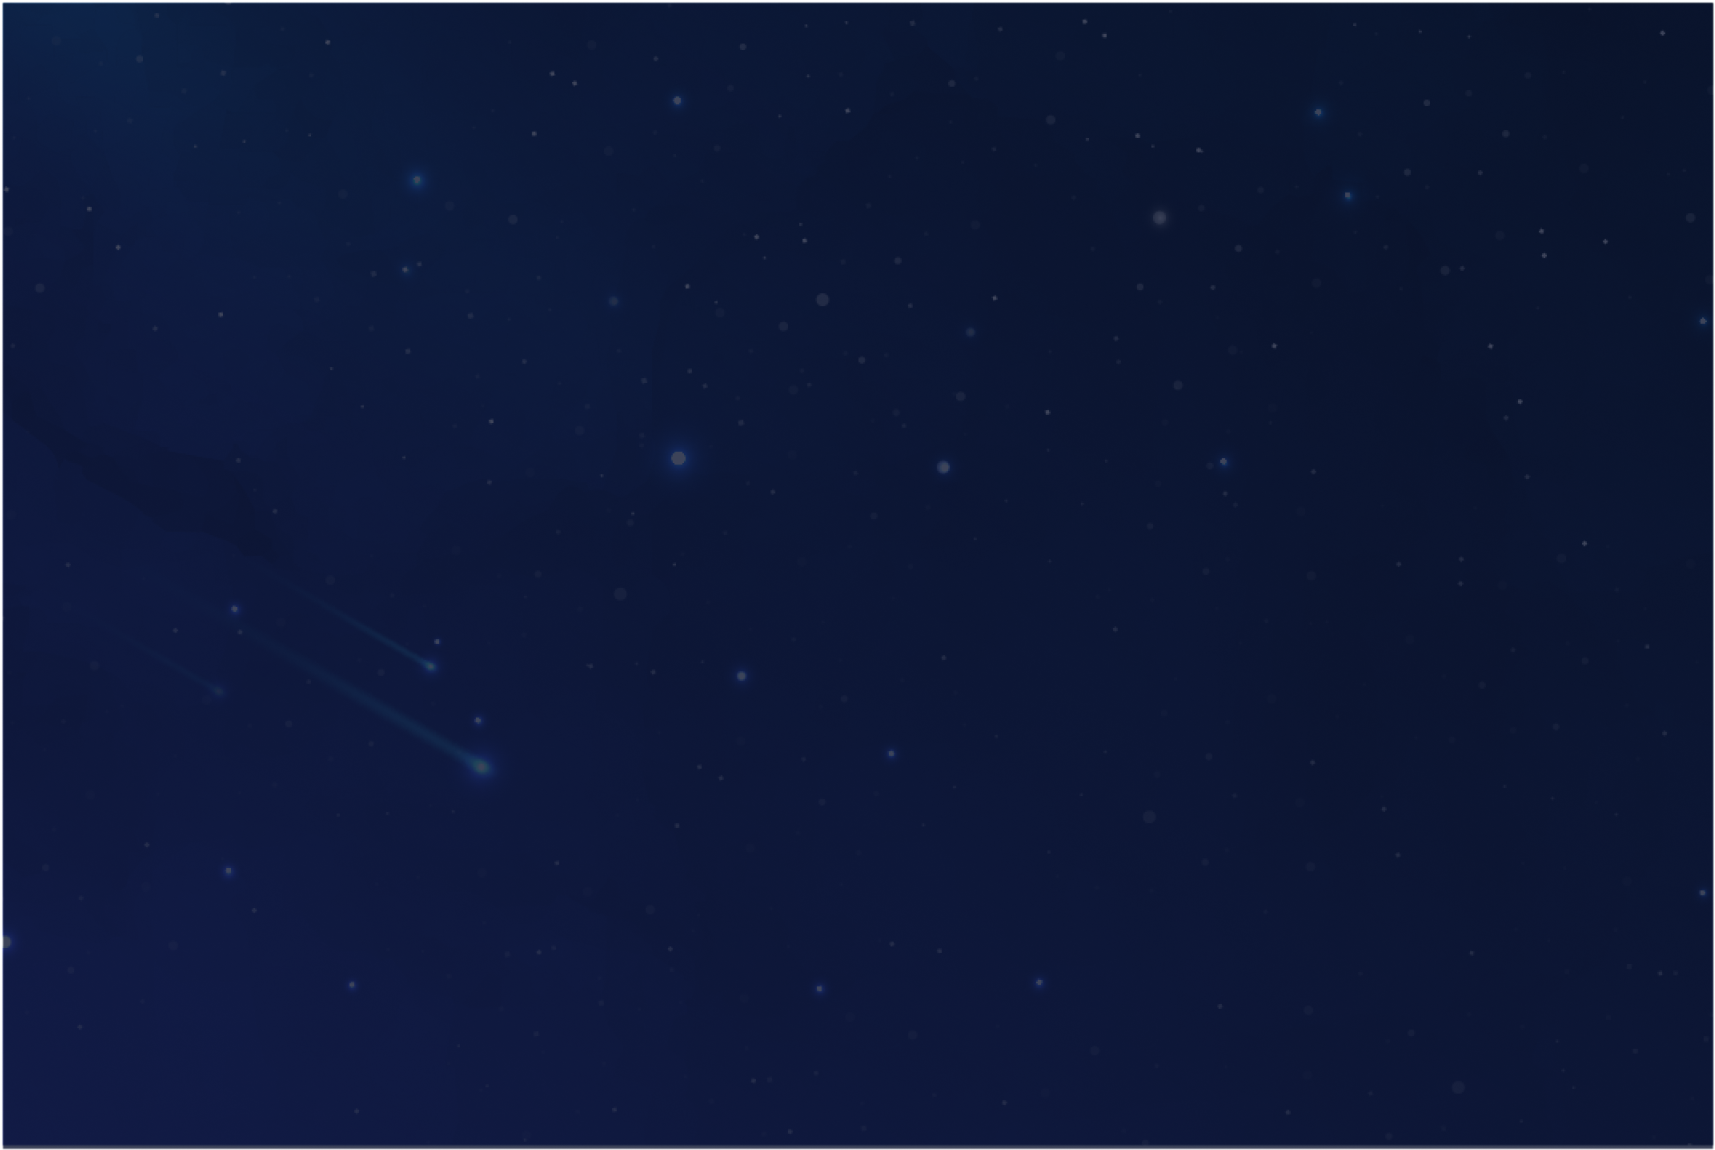
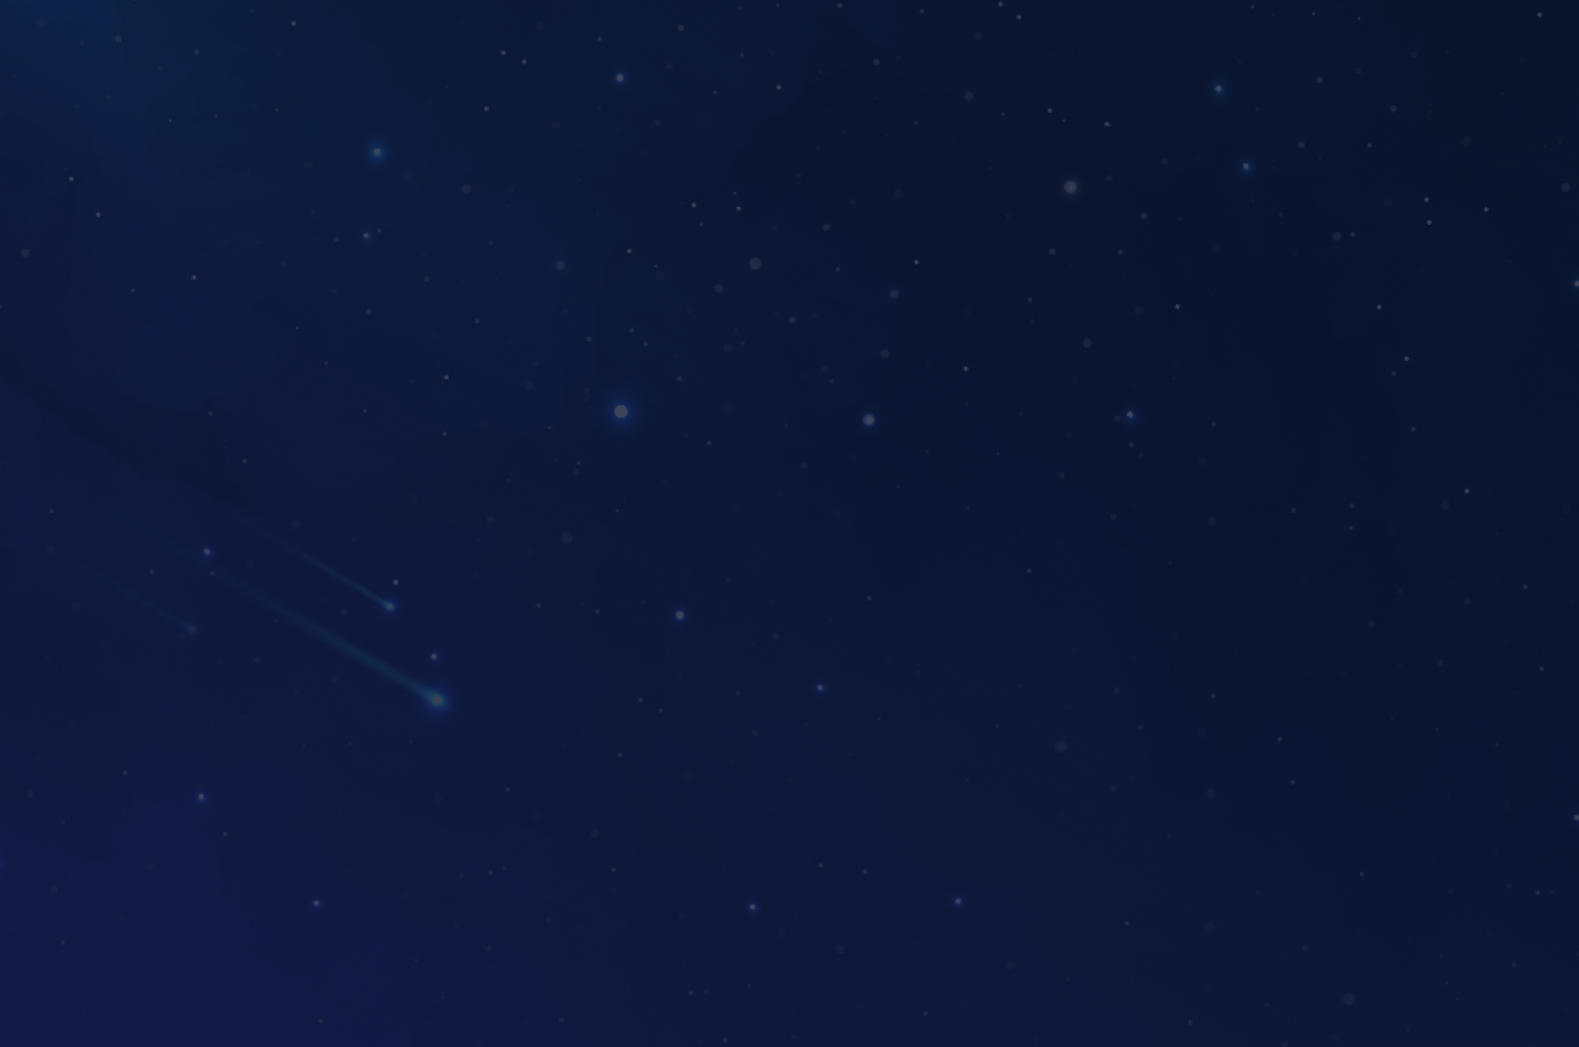
feat: add dark theme

diff --git a/src/components/Header/style.module.scss b/src/components/Header/style.module.scss
@@ -18,44 +18,67 @@
 
 .date {
   display: flex;
-  gap: 2px;
+  gap: 10px;
   font-size: 24px;
 
   span:last-child {
     border-left: 1px solid var(--white);
-    padding-left: 2px;
+    padding-left: 10px;
   }
 }
 
-.shearch {
+.search {
   display: flex;
 
   input {
-    width: 550px;
-    height: 50px;
+    width: 600px;
+    height: 55px;
     margin-right: 20px;
     padding: 10px;
 
     font-size: 16px;
-    color: gray;
 
     border: none;
-    border-radius: 8px;
+    border-radius: 12px;
     position: relative;
   }
 
   button {
-    width: 100px;
-    height: 50px;
+    width: 120px;
+    height: 55px;
 
     border: none;
-    border-radius: 8px;
-
-    color: var(--white);
-    background-color: var(--blue);
-
+    border-radius: 12px;
     font-size: 16px;
+    font-weight: 600;
     position: absolute;
     right: 90px;
+  }
+}
+
+.lightSearch {
+  input {
+    background-color: var(--white);
+    color: gray;
+  }
+
+  button {
+    color: var(--white);
+    background-color: var(--blue);
+  }
+}
+
+.darkSearch {
+  input {
+    background-color: var(--background-dark-blue);
+  }
+
+  input::placeholder {
+    color: var(--light);
+  }
+
+  button {
+    color: var(--background-dark-blue);
+    background-color: var(--light);
   }
 }

diff --git a/src/app/page.tsx b/src/app/page.tsx
@@ -1,15 +1,24 @@
+'use client'
+
 import './globals.scss'
 import style from './page.module.scss'
 import { Header } from '../components/Header'
 import { Weather } from '@/components/Weather'
 import { WeekWeather } from '@/components/WeekWeather'
+import { useState } from 'react'
 
 export default function Home() {
+  const [isDarkTheme, setDarkTheme] = useState<boolean>(true)
+
   return (
-    <div className={style.container}>
-      <Header />
+    <div
+      className={`${style.container} ${
+        isDarkTheme ? style.darkContainer : style.lightContainer
+      }`}
+    >
+      <Header darkTheme={isDarkTheme} />
       <Weather />
-      <WeekWeather />
+      <WeekWeather darkTheme={isDarkTheme} />
     </div>
   )
 }

diff --git a/src/components/Header/index.tsx b/src/components/Header/index.tsx
@@ -1,6 +1,10 @@
 import style from './style.module.scss'
 
-export function Header() {
+interface HeaderProps {
+  darkTheme: boolean
+}
+
+export function Header({ darkTheme }: HeaderProps) {
   return (
     <div className={style.container}>
       <div className={style.information}>
@@ -11,7 +15,11 @@ export function Header() {
           <span>10:15 PM</span>
         </div>
       </div>
-      <div className={style.shearch}>
+      <div
+        className={`${darkTheme ? style.darkSearch : style.lightSearch} ${
+          style.search
+        }`}
+      >
         <input type="text" placeholder="search by region" />
         <button>Search</button>
       </div>

diff --git a/src/components/WeekWeather/index.tsx b/src/components/WeekWeather/index.tsx
@@ -1,9 +1,17 @@
 import { WeatherForNextDay } from '../WeatherForNextDay'
 import style from './style.module.scss'
 
-export function WeekWeather() {
+interface WeekWeatherProps {
+  darkTheme: boolean
+}
+
+export function WeekWeather({ darkTheme }: WeekWeatherProps) {
   return (
-    <div className={style.container}>
+    <div
+      className={`${style.container} ${
+        darkTheme ? style.darkContainer : style.lightContainer
+      }`}
+    >
       <WeatherForNextDay />
       <WeatherForNextDay />
       <WeatherForNextDay />

diff --git a/src/components/WeekWeather/style.module.scss b/src/components/WeekWeather/style.module.scss
@@ -1,13 +1,18 @@
 .container {
   width: 95%;
   height: 300px;
-
-  background-color: var(--blue);
-  opacity: 60%;
   border-radius: 24px;
 
   display: flex;
   align-items: center;
   justify-content: space-between;
   padding: 60px;
+}
+
+.lightContainer {
+  background-color: rgba(23, 49, 134, 0.507);
+}
+
+.darkContainer {
+  background-color: rgba(33, 41, 81, 0.605);
 }

diff --git a/src/app/page.module.scss b/src/app/page.module.scss
@@ -6,7 +6,15 @@
   display: flex;
   flex-direction: column;
   align-items: center;
+}
 
+.darkContainer {
+  background-image: (url('../../public/background-night.png'));
+  background-repeat: no-repeat;
+  background-size: cover;
+}
+
+.lightContainer {
   background-image: (url('../../public/background-day.png'));
   background-repeat: no-repeat;
   background-size: cover;

diff --git a/src/app/globals.scss b/src/app/globals.scss
@@ -1,8 +1,11 @@
 :root {
-  --dark-blue: #0c1938;
-  --light-blue: #497acb;
-  --blue: #213e9b;
-  --white: #ffffff;
+  --background-dark-blue: rgb(33, 41, 81);
+  --dark-blue: rgb(12, 25, 56);
+  --blue: rgb(33, 62, 155);
+  --light-blue: rgb(73, 122, 203);
+
+  --white: rgb(255, 255, 255);
+  --light: rgba(255, 255, 255, 0.743);
 }
 
 * {
